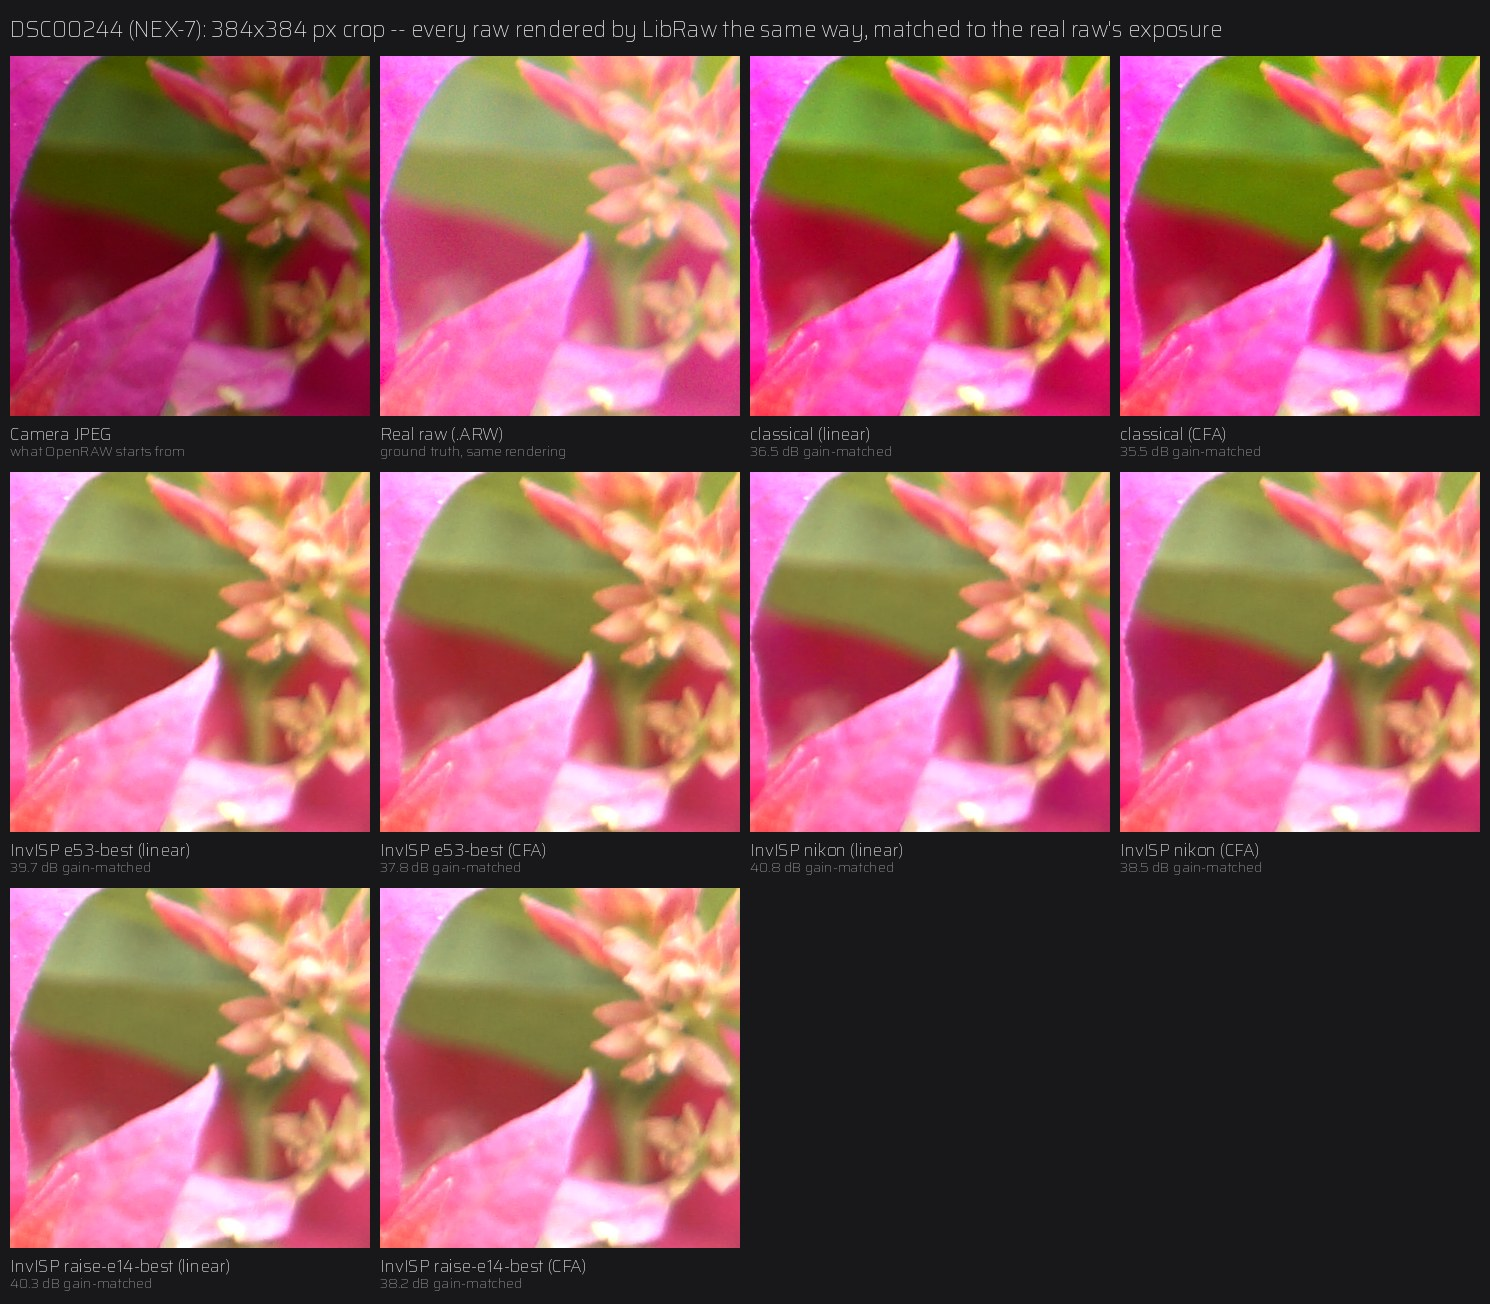
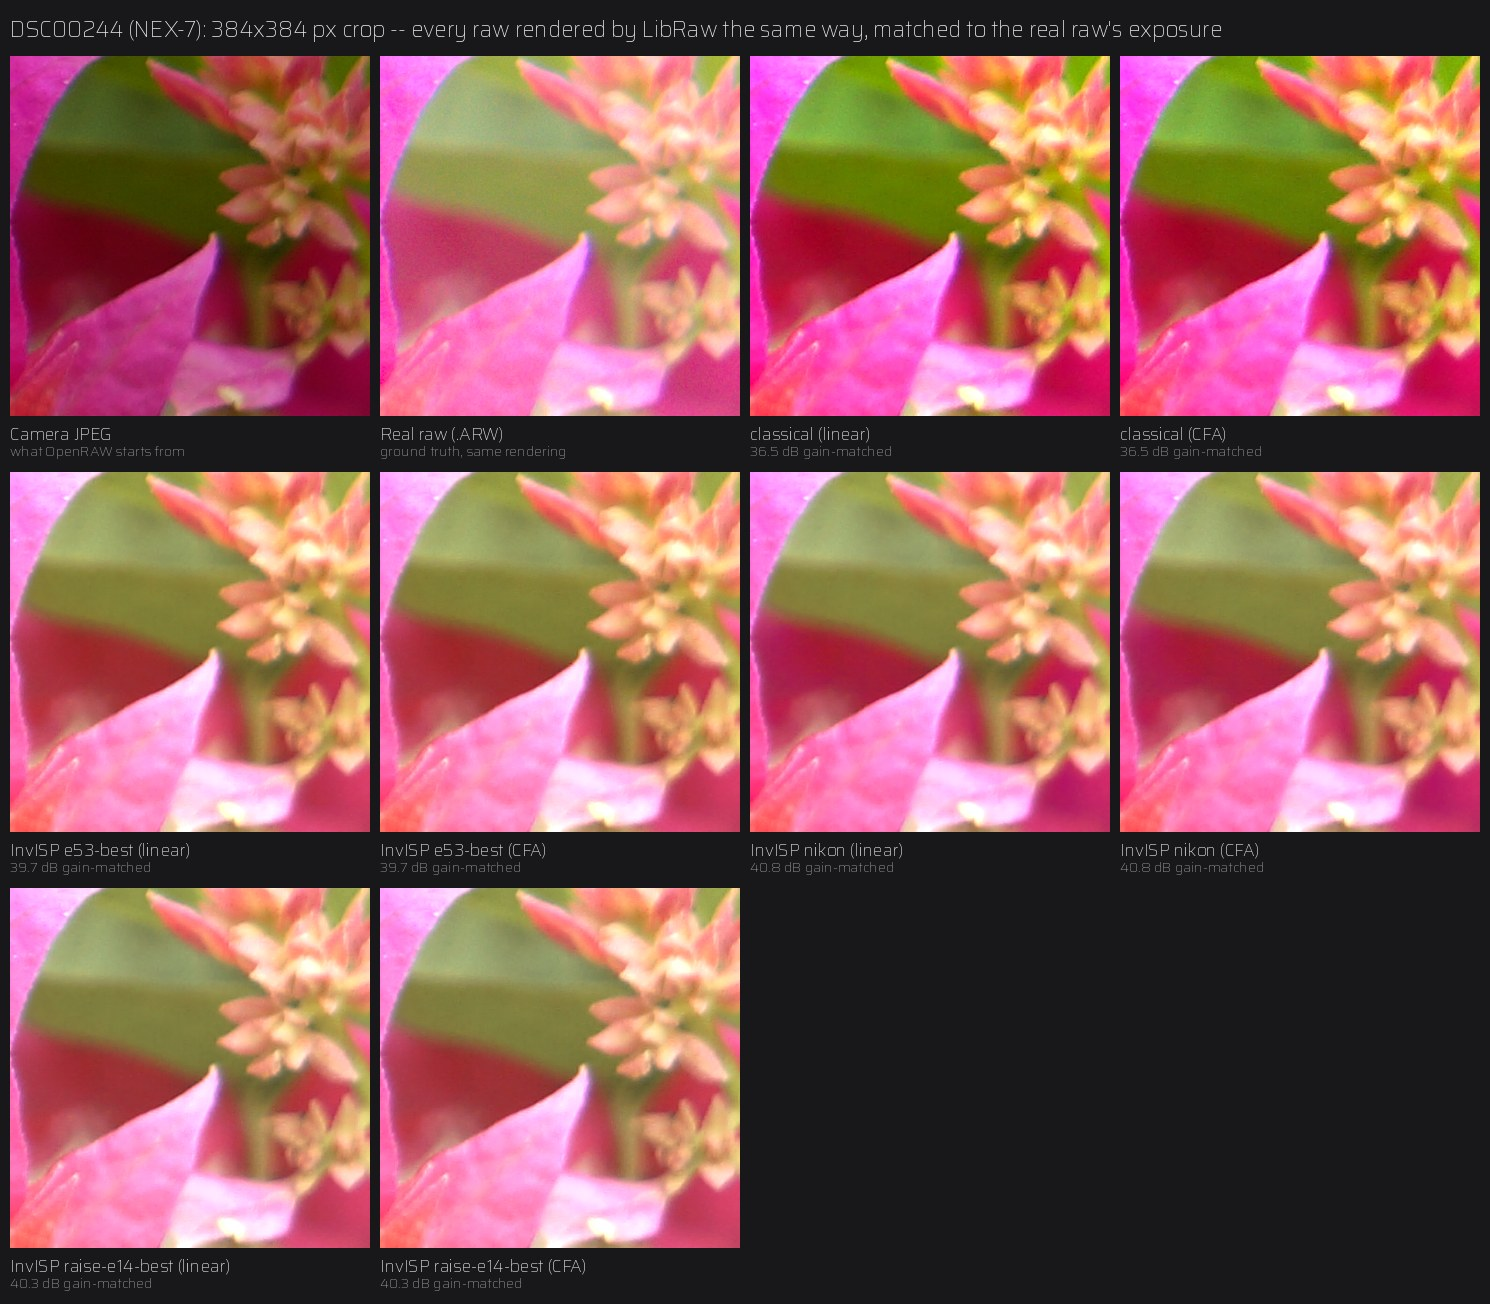
CFA: fix raw_pair_eval's CFA alignment, add --cfa-aa anti-aliasing filter
raw_pair_eval rendered CFA DNGs without their DefaultCrop (LibRaw reports
it but postprocess() doesn't apply it), so the 4 px demosaicing border
shifted every CFA render against the linear one and the real raw. That is
where "CFA costs 0.9-2.3 dB" came from. With the crop applied, CFA scores
the same as linear on all four NEX-7 photos (within 0.05 dB). Results and
comparison images regenerated.

--cfa-aa STRENGTH emulates a 4-dot optical low-pass filter before Bayer
sampling (separable [s/4, 1-s/2, s/4]). At 0.5 through AHD: false colour
on a fine grey zone plate down to 33-51%, a real photo's round trip vs
linear 51.9 -> 53.1 dB, edge energy 96% -> 80%, real-raw score +0.02 dB.
Off by default; softens text and graphics.

Also measured and not adopted: matching the mosaic phase to the camera's
sensor (0.02 dB), chroma-only or red/blue-only low-pass, and iterative
pre-compensation for a bilinear/Malvar demosaic (worse through AHD/DCB).

diff --git a/openraw/dng_writer.py b/openraw/dng_writer.py
@@ -241,6 +241,29 @@ def _rgb_to_mosaic(rgb16: np.ndarray, pattern: str = CFA_PATTERN, pad: int = CFA
     return np.ascontiguousarray(np.take_along_axis(rgb16, idx[..., None], 2)[..., 0])
 
 
+def olpf_prefilter(rgb16: np.ndarray, strength: float) -> np.ndarray:
+    """Emulate a sensor's optical low-pass ("anti-aliasing") filter before
+    Bayer sampling: a 4-dot birefringent OLPF splits each point into four
+    copies 1 px apart, i.e. a separable [s/4, 1-s/2, s/4] blur; strength 1 =
+    a full-strength filter, 0 = none (returns the input unchanged).
+
+    Measured (docs/dng-format.md): at 0.5, false-colour moire on fine neutral
+    detail (a zone plate) through AHD drops by half or more, and a real
+    photo's round trip through AHD improves (51.9 -> 53.1 dB), at the cost of
+    ~15% edge energy -- the softness of a camera with an AA filter. Little
+    help on saturated single-colour patterns. Against the Sony NEX-7's real
+    raws it scores a hair closer (+0.02 dB). Softens graphics/text: use the
+    linear layout there."""
+    if not strength:
+        return rgb16
+    if not 0 < strength <= 1:
+        raise ValueError(f"OLPF strength must be in (0, 1], got {strength}")
+    import cv2
+    k = np.array([strength / 4, 1 - strength / 2, strength / 4], np.float32)
+    out = cv2.sepFilter2D(rgb16.astype(np.float32), -1, k, k, borderType=cv2.BORDER_REFLECT_101)
+    return np.clip(out + 0.5, 0, 65535).astype(np.uint16)
+
+
 def _ljpeg_cfa_tiles(data: np.ndarray, bits: int, tile: int = LJPEG_TILE, threads: int | None = None):
     """CFA tiles as lossless JPEG in the standard camera layout: 2 components
     at half width, so each component's left neighbour is the SAME colour (a
@@ -268,9 +291,10 @@ def _ljpeg_cfa_tiles(data: np.ndarray, bits: int, tile: int = LJPEG_TILE, thread
         yield from pool.map(encode, coords)
 
 
-def _cfa_payload(rgb16: np.ndarray, compression: str, bit_depth: int, threads: int | None = None):
+def _cfa_payload(rgb16: np.ndarray, compression: str, bit_depth: int, threads: int | None = None,
+                 olpf: float = 0.0):
     """-> (data, write kwargs, raw-IFD tags) for a CFA (Bayer) main image."""
-    mosaic = _rgb_to_mosaic(rgb16)
+    mosaic = _rgb_to_mosaic(olpf_prefilter(rgb16, olpf))
     h, w = mosaic.shape
     raw_tags = [
         (33421, "H", 2, (2, 2), False),                       # CFARepeatPatternDim
@@ -363,6 +387,7 @@ def write_linear_dng(
     bit_depth: int = 12,
     threads: int | None = None,
     layout: str = "linear",
+    cfa_olpf: float = 0.0,
     exif_fields: dict | None = None,
     write_preview: bool = True,
     preview_max_dim: int = 1024,
@@ -404,6 +429,10 @@ def write_linear_dng(
         the data: an 18 MP photo is ~18 MB at the default 12 bits vs ~50 MB.
         The re-mosaic round trip measured ~48 dB PSNR through libraw's
         AHD/DCB/PPG demosaics (generally invisible above ~40 dB).
+    cfa_olpf: layout "cfa" only -- strength of an emulated optical low-pass
+        (anti-aliasing) filter applied before Bayer sampling, 0 (default, off)
+        to 1. 0.5 halves false-colour moire on fine detail at the cost of
+        some sharpness. See olpf_prefilter().
     threads: worker threads for lossless-JPEG tile encoding. None (default) =
         all CPU cores; 1 = single-threaded. Output is byte-identical either way.
     exif_fields: output of exif_transfer.extract_exif() on the source
@@ -530,7 +559,7 @@ def write_linear_dng(
         # Single-channel Bayer mosaic. tifffile knows CFA (32803) and a
         # 1-sample image natively -- nothing to guess, so no post-write
         # fix-up; and its raw-IFD tags replace the 3-sample black/white ones.
-        main_data, cfa_kwargs, raw_extratags = _cfa_payload(rgb16, compression, bit_depth, threads)
+        main_data, cfa_kwargs, raw_extratags = _cfa_payload(rgb16, compression, bit_depth, threads, cfa_olpf)
         main_kwargs = dict(photometric=32803, description=description, software=f"OpenRAW {pipeline_version}",
                            metadata=None, subfiletype=0, extratags=ifd0_extratags + raw_extratags, **cfa_kwargs)
         finalize = False

diff --git a/tests/test_cfa.py b/tests/test_cfa.py
@@ -102,3 +102,49 @@ def test_cfa_quality_tool_runs(tmp_path, capsys):
     out = capsys.readouterr().out
     assert "libraw AHD" in out and "PSNR dB" in out
     assert (tmp_path / "test_source_cfa_crops.png").exists()
+
+
+def _zone_plate(n=192):
+    """Fine grey concentric rings, ever finer towards the corner: the detail a
+    Bayer sensor without an anti-aliasing filter turns into coloured moire."""
+    yy, xx = np.mgrid[0:n, 0:n].astype(np.float32)
+    zp = 0.5 + 0.5 * np.cos(0.9 * np.pi * (xx ** 2 + yy ** 2) / (2 * n))
+    lin = np.where(zp <= 0.04045, zp / 12.92, ((zp + 0.055) / 1.055) ** 2.4)
+    return np.repeat((lin * 65535 + 0.5).astype(np.uint16)[..., None], 3, axis=2)
+
+
+def test_olpf_off_changes_nothing(tmp_path, rgb16):
+    from openraw.dng_writer import olpf_prefilter
+    assert olpf_prefilter(rgb16, 0) is rgb16
+    a, b = str(tmp_path / "a.dng"), str(tmp_path / "b.dng")
+    write_linear_dng(a, rgb16, layout="cfa", write_preview=False)
+    write_linear_dng(b, rgb16, layout="cfa", write_preview=False, cfa_olpf=0.0)
+    assert open(a, "rb").read() == open(b, "rb").read()
+    with pytest.raises(ValueError):
+        olpf_prefilter(rgb16, 1.5)
+
+
+def test_olpf_reduces_false_colour_on_fine_detail(tmp_path):
+    """The emulated anti-aliasing filter: much less false colour (chroma error
+    against the ideal, demosaic-free image, as displayed) on a zone plate
+    through AHD. Measured ~50% less at 192 px, ~70% at 256 px."""
+    img = _zone_plate()
+    lin = str(tmp_path / "l.dng")
+    write_linear_dng(lin, img, compression="none", write_preview=False)
+    ref = _libraw(lin).astype(np.float32) / 65535
+
+    def chroma_error(strength):
+        p = str(tmp_path / f"c{strength}.dng")
+        write_linear_dng(p, img, layout="cfa", write_preview=False, cfa_olpf=strength)
+        out = _libraw(p, rawpy.DemosaicAlgorithm.AHD).astype(np.float32) / 65535
+        enc = lambda x: np.power(np.clip(x, 0, 1), 1 / 2.2)  # noqa: E731
+        c = lambda x: enc(x) - enc(x).mean(axis=-1, keepdims=True)  # noqa: E731
+        return float(np.abs(c(out) - c(ref))[8:-8, 8:-8].mean())
+    off, on = chroma_error(0.0), chroma_error(0.5)
+    assert on < 0.7 * off, (off, on)
+
+
+def test_cli_rejects_cfa_aa_without_cfa_layout(tmp_path):
+    from openraw.cli import main
+    with pytest.raises(SystemExit):
+        main([os.path.join(ROOT, "examples", "test_source.jpg"), "-o", str(tmp_path), "--cfa-aa", "0.5"])

diff --git a/openraw/cli.py b/openraw/cli.py
@@ -76,6 +76,10 @@ def _build_parser() -> argparse.ArgumentParser:
     g.add_argument("--layout", choices=["linear", "cfa"], default="linear",
                    help="linear (default): demosaiced RGB, no demosaicing needed by readers. cfa: an RGGB "
                         "Bayer mosaic like a real camera raw -- your editor runs its own demosaic; ~1/3 the size.")
+    g.add_argument("--cfa-aa", type=float, default=0.0, metavar="STRENGTH",
+                   help="--layout cfa only: emulate a camera's anti-aliasing (optical low-pass) filter before "
+                        "the Bayer mosaic, 0 (default, off) to 1. 0.5 roughly halves moire / false colour on fine "
+                        "detail, slightly softer. Not for graphics or text.")
     g.add_argument("--no-exif", action="store_true",
                    help="don't carry camera metadata (Make/Model/lens/exposure...) into the DNG. GPS is never carried.")
     g.add_argument("--no-preview", action="store_true", help="skip the embedded JPEG preview")
@@ -126,6 +130,7 @@ def _config_from_args(a) -> PipelineConfig:
         dng_bit_depth=a.bit_depth,
         encode_threads=a.threads or None,
         dng_layout=a.layout,
+        dng_cfa_olpf=a.cfa_aa,
         preserve_exif=not a.no_exif,
         write_preview=not a.no_preview,
         preview_max_dim=a.preview_max_dim,
@@ -229,7 +234,12 @@ def main(argv: list[str] | None = None) -> int:
             and "-o" not in argv and "--output" not in argv:
         argv = [argv[0], "-o", argv[1]] + argv[2:]
 
-    args = _build_parser().parse_args(argv)
+    parser = _build_parser()
+    args = parser.parse_args(argv)
+    if args.cfa_aa and args.layout != "cfa":
+        parser.error("--cfa-aa only applies to --layout cfa")
+    if not 0 <= args.cfa_aa <= 1:
+        parser.error("--cfa-aa must be between 0 and 1")
     try:
         plan = plan_jobs(args.inputs, args.output, args.recursive)
     except ValueError as e:

diff --git a/tests/test_raw_pair_eval.py b/tests/test_raw_pair_eval.py
@@ -46,3 +46,19 @@ def test_gain_matching_removes_exposure_and_white_balance_only():
     assert np.allclose([m["gain_r"], m["gain_g"], m["gain_b"]], [2.0, 1 / 0.7, 1 / 0.9], rtol=1e-3)
     curved = np.power(ref, 0.8)  # a tone difference is not explained by gains
     assert rpe.metrics(ref, curved)["psnr_gain"] < 40
+
+
+def test_render_applies_the_cfa_dngs_default_crop(tmp_path):
+    """A CFA DNG carries a 4 px border for demosaicing, removed by DefaultCrop.
+    render() must apply it, or CFA renders are scored 4 px out of alignment."""
+    pytest.importorskip("rawpy")
+    from openraw.dng_writer import write_linear_dng
+    yy, xx = np.mgrid[0:300, 0:400].astype(np.float32)  # (libraw mis-renders very small CFA images)
+    img = np.repeat((np.sin(xx / 7) * np.cos(yy / 5))[..., None], 3, axis=2)
+    img = ((img * 0.4 + 0.5) * 30000).astype(np.uint16)  # smooth: a CFA round trip keeps it
+    lin, cfa = tmp_path / "l.dng", tmp_path / "c.dng"
+    write_linear_dng(str(lin), img, write_preview=False)
+    write_linear_dng(str(cfa), img, layout="cfa", write_preview=False)
+    a, b = rpe.render(lin), rpe.render(cfa)
+    assert a.shape == b.shape == (300, 400, 3)
+    assert np.abs(a - b)[4:-4, 4:-4].mean() < 0.01  # aligned: same pixels

diff --git a/openraw/pipeline.py b/openraw/pipeline.py
@@ -47,6 +47,7 @@ class PipelineConfig:
     dng_bit_depth: int = 12  # 16 (bit-exact), 14, 12, 10
     encode_threads: int | None = None  # LJPEG tile-encoding threads; None = all cores
     dng_layout: str = "linear"  # or "cfa": Bayer mosaic, demosaiced by the raw editor
+    dng_cfa_olpf: float = 0.0  # "cfa" only: emulated anti-aliasing filter strength, 0 = off (try 0.5)
     preserve_exif: bool = True  # no GPS ever -- dropped entirely, see exif_transfer.py
     write_preview: bool = True  # small JPEG preview + SubIFD main image -- see dng_writer.py
     preview_max_dim: int = 1024
@@ -143,6 +144,7 @@ class OpenRawPipeline:
             bit_depth=cfg.dng_bit_depth,
             threads=cfg.encode_threads,
             layout=cfg.dng_layout,
+            cfa_olpf=cfg.dng_cfa_olpf,
             exif_fields=result.decoded.exif_fields if cfg.preserve_exif else None,
             write_preview=cfg.write_preview,
             preview_max_dim=cfg.preview_max_dim,

diff --git a/tools/raw_pair_eval.py b/tools/raw_pair_eval.py
@@ -122,6 +122,13 @@ def render(path) -> np.ndarray:
         out = r.postprocess(use_camera_wb=True, no_auto_bright=True, output_bps=16, gamma=(1, 1),
                             user_flip=0, output_color=rawpy.ColorSpace.sRGB,
                             demosaic_algorithm=rawpy.DemosaicAlgorithm.AHD)
+        s = r.sizes
+    # LibRaw reports a DNG's DefaultCrop but postprocess() doesn't apply it. A CFA
+    # DNG carries a 4 px demosaicing border there; left in, it shifts the render
+    # by 4 px against the linear one and every CFA score came out ~1-2 dB low.
+    if s.crop_width and s.crop_height and (s.crop_width, s.crop_height) != (out.shape[1], out.shape[0]):
+        out = out[s.crop_top_margin:s.crop_top_margin + s.crop_height,
+                  s.crop_left_margin:s.crop_left_margin + s.crop_width]
     return out.astype(np.float32) / 65535.0
 
 

diff --git a/docs/dng-format.md b/docs/dng-format.md
@@ -88,11 +88,38 @@ quality -- the source JPEG's precision is the limit there).
   --crops out/` prints PSNR / sharpness / colour error for every libraw
   demosaic (+ Adobe's reference renderer if `OPENRAW_DNG_VALIDATE` is set) and
   saves zoomed side-by-side crops of each photo's most detailed region.
-- **Known limit**: razor-sharp edges between saturated primaries get some
-  false colour (35 dB on a synthetic worst case) -- inherent to sampling one
-  colour per pixel; real cameras share it. A chroma low-pass prefilter
-  (emulating a sensor's OLPF) was tried and made both test images *worse*,
-  so it isn't used.
+- **Against a real raw** (Sony NEX-7 RAW+JPEG pairs, `tools/raw_pair_eval.py`,
+  see [invisp.md](invisp.md#against-a-real-raw-sony-nex-7)): CFA scores the
+  same as linear, within 0.05 dB for every method and photo. Which of the four
+  Bayer phases the mosaic uses made no measurable difference either (0.02 dB):
+  the camera's processing has erased any trace of its own sensor's mosaic.
+- **Known limit**: razor-sharp edges between saturated primaries, and fine
+  repeating detail near the pixel pitch, get false colour (moiré) -- inherent
+  to sampling one colour per pixel; real cameras share it, and most fight it
+  with an optical low-pass ("anti-aliasing") filter.
+- **`--cfa-aa STRENGTH`** emulates that filter before the mosaic is sampled:
+  a 4-dot birefringent OLPF, i.e. a separable `[s/4, 1-s/2, s/4]` blur. Off by
+  default. Measured at 0.5, through libraw's AHD:
+
+  | | off | `--cfa-aa 0.5` | `--cfa-aa 1` |
+  |---|---|---|---|
+  | false colour, fine grey zone plate (192 / 256 px) | 100% | 51% / 33% | — |
+  | real photo round trip vs linear (PSNR, NEX-7 DSC00244) | 51.9 dB | 53.1 dB | 52.7 dB |
+  | real photo edge energy vs linear (same) | 96% | 80% | 71% |
+  | vs the real NEX-7 raws (gain-matched, mean of 4) | 39.44 dB | 39.46 dB | 39.47 dB |
+  | text and flat graphics vs linear (display PSNR) | 28.6 dB | 25.1 dB | 22.9 dB |
+
+  So it halves moiré on fine neutral detail and makes real photos
+  demosaic *more* faithfully, at the cost of some crispness -- the trade
+  every AA-filtered camera makes. It does little for saturated
+  single-colour patterns (red on black stays hard), and it softens text and
+  graphics, which belong in the linear layout anyway.
+- **Tried and rejected** (same measurements): a chroma-only low-pass before
+  sampling (worse on every test), low-passing only red and blue (no help on
+  moiré: smart demosaics rebuild red/blue detail from green), and iteratively
+  pre-compensating the mosaic for a bilinear or Malvar demosaic (half the
+  false colour through that demosaic, but 1-3 dB worse through AHD/DCB --
+  the editor's demosaic is unknown, so tuning for one hurts the others).
 - **Padding**: the image is mirror-padded by 4 px and `DefaultCrop` removes it,
   so demosaicing has neighbours at the edges (Adobe warns below 2 px; 4 px
   measured edge quality level with the interior). libraw reports the crop to

diff --git a/docs/invisp.md b/docs/invisp.md
@@ -113,13 +113,13 @@ sharpest 2048×2048 px region.
 | Method | Layout | PSNR, gain-matched | gain-matched, display | PSNR as converted |
 |---|---|---|---|---|
 | classical | linear | 36.48 dB | 23.96 dB | 16.35 dB |
-| classical | CFA | 35.39 dB | 23.61 dB | 16.29 dB |
+| classical | CFA | 36.52 dB | 23.98 dB | 16.33 dB |
 | InvISP `openraw-fivek-e53-best` | linear | 38.95 dB | 28.55 dB | 29.68 dB |
-| InvISP `openraw-fivek-e53-best` | CFA | 37.30 dB | 27.78 dB | 29.32 dB |
-| InvISP `nikon.pth` (upstream) | linear | **40.32 dB** | **30.25 dB** | **32.48 dB** |
-| InvISP `nikon.pth` (upstream) | CFA | 38.25 dB | 29.16 dB | 31.88 dB |
+| InvISP `openraw-fivek-e53-best` | CFA | 38.97 dB | 28.56 dB | 29.70 dB |
+| InvISP `nikon.pth` (upstream) | linear | 40.32 dB | 30.25 dB | 32.48 dB |
+| InvISP `nikon.pth` (upstream) | CFA | **40.33 dB** | **30.25 dB** | **32.50 dB** |
 | InvISP `openraw-fivek-raise-e14-best` | linear | 39.42 dB | 29.34 dB | 31.64 dB |
-| InvISP `openraw-fivek-raise-e14-best` | CFA | 37.62 dB | 28.45 dB | 31.15 dB |
+| InvISP `openraw-fivek-raise-e14-best` | CFA | 39.44 dB | 29.35 dB | 31.67 dB |
 
 *Means over the four photos; per photo in
 [`examples/nex7_raw_pair_results.csv`](../examples/nex7_raw_pair_results.csv).*
@@ -140,9 +140,13 @@ sharpest 2048×2048 px region.
   `e53-best`), level on DSC00245, 0.5-1.6 dB behind on the others, and
   0.1-0.6 dB ahead of `e53-best` on every photo. Why a single-camera model
   transfers this well to the Sony isn't known yet.
-- **CFA costs 0.9–2.3 dB** against linear here: the editor's demosaic has to
-  rebuild detail the linear DNG stores directly. Still well ahead of the
-  classical path for InvISP.
+- **CFA costs nothing** here: a CFA DNG, demosaiced by the same converter
+  (AHD), scores within 0.05 dB of the linear one for every method and photo
+  (0.01-0.04 dB higher on average). The real raw went through a Bayer filter
+  and the same demosaic, so re-mosaicing doesn't take the result any further
+  from it. (Earlier versions of this table showed CFA 0.9-2.3 dB behind:
+  `raw_pair_eval` didn't apply the CFA DNG's 4 px DefaultCrop, so it scored
+  the CFA render 4 px out of alignment.)
 - Four photos, one camera, one session, similar subjects (flowers, close
   up): a first real measurement, not a benchmark.
 

diff --git a/CHANGELOG.md b/CHANGELOG.md
@@ -5,6 +5,12 @@ summarized; commit messages carry the full detail and measurements.
 
 ## [Unreleased] — 0.1.0.dev0
 
+### Fixed
+- `tools/raw_pair_eval.py` scored CFA DNGs 4 px out of alignment (LibRaw
+  reports the DefaultCrop that removes the CFA padding but doesn't apply it),
+  so CFA looked 0.9–2.3 dB worse than linear against the NEX-7 raws. Fixed:
+  CFA scores the same as linear. Results and comparison images regenerated.
+
 ### Changed
 - **Renamed to OpenRAW**: package `pseudoraw` → `openraw`, command
   `pseudoraw` → `openraw`, `PseudoRawPipeline` → `OpenRawPipeline`,
@@ -21,6 +27,10 @@ summarized; commit messages carry the full detail and measurements.
 - `openraw --version` reports key library versions for bug reports.
 
 ### Added — DNG output
+- **`--cfa-aa STRENGTH`** (with `--layout cfa`): emulates a camera's optical
+  low-pass (anti-aliasing) filter before the Bayer mosaic. At 0.5: about half
+  the false-colour moiré on fine detail, a closer demosaic round trip on real
+  photos (51.9 → 53.1 dB through AHD), ~15% less edge energy. Off by default.
 - **Lossless-JPEG DNG compression** (tiled, 3-component) with a DNG
   LinearizationTable at 12-bit by default: ~50 MB instead of ~108 MB for an
   18 MP photo. `--bit-depth 16/14/12/10`, `--compression none`.

diff --git a/README.md b/README.md
@@ -77,6 +77,9 @@ an 18 MP photo around **50 MB**:
 `--layout cfa` writes a **Bayer mosaic** instead, like a real camera raw:
 your editor runs its own demosaic, and the file is ~3x smaller (~18 MB).
 Best for photographs; keep linear for screenshots, logos and graphics.
+Against real raws it scores the same as linear. Add `--cfa-aa 0.5` to
+emulate a camera's anti-aliasing filter: about half the moiré on fine
+repeating detail (fabric, fences, screens), slightly softer.
 See [docs/dng-format.md](docs/dng-format.md) for measured quality.
 
 All of these are lossless-JPEG-compressed DNGs (the same compression real
